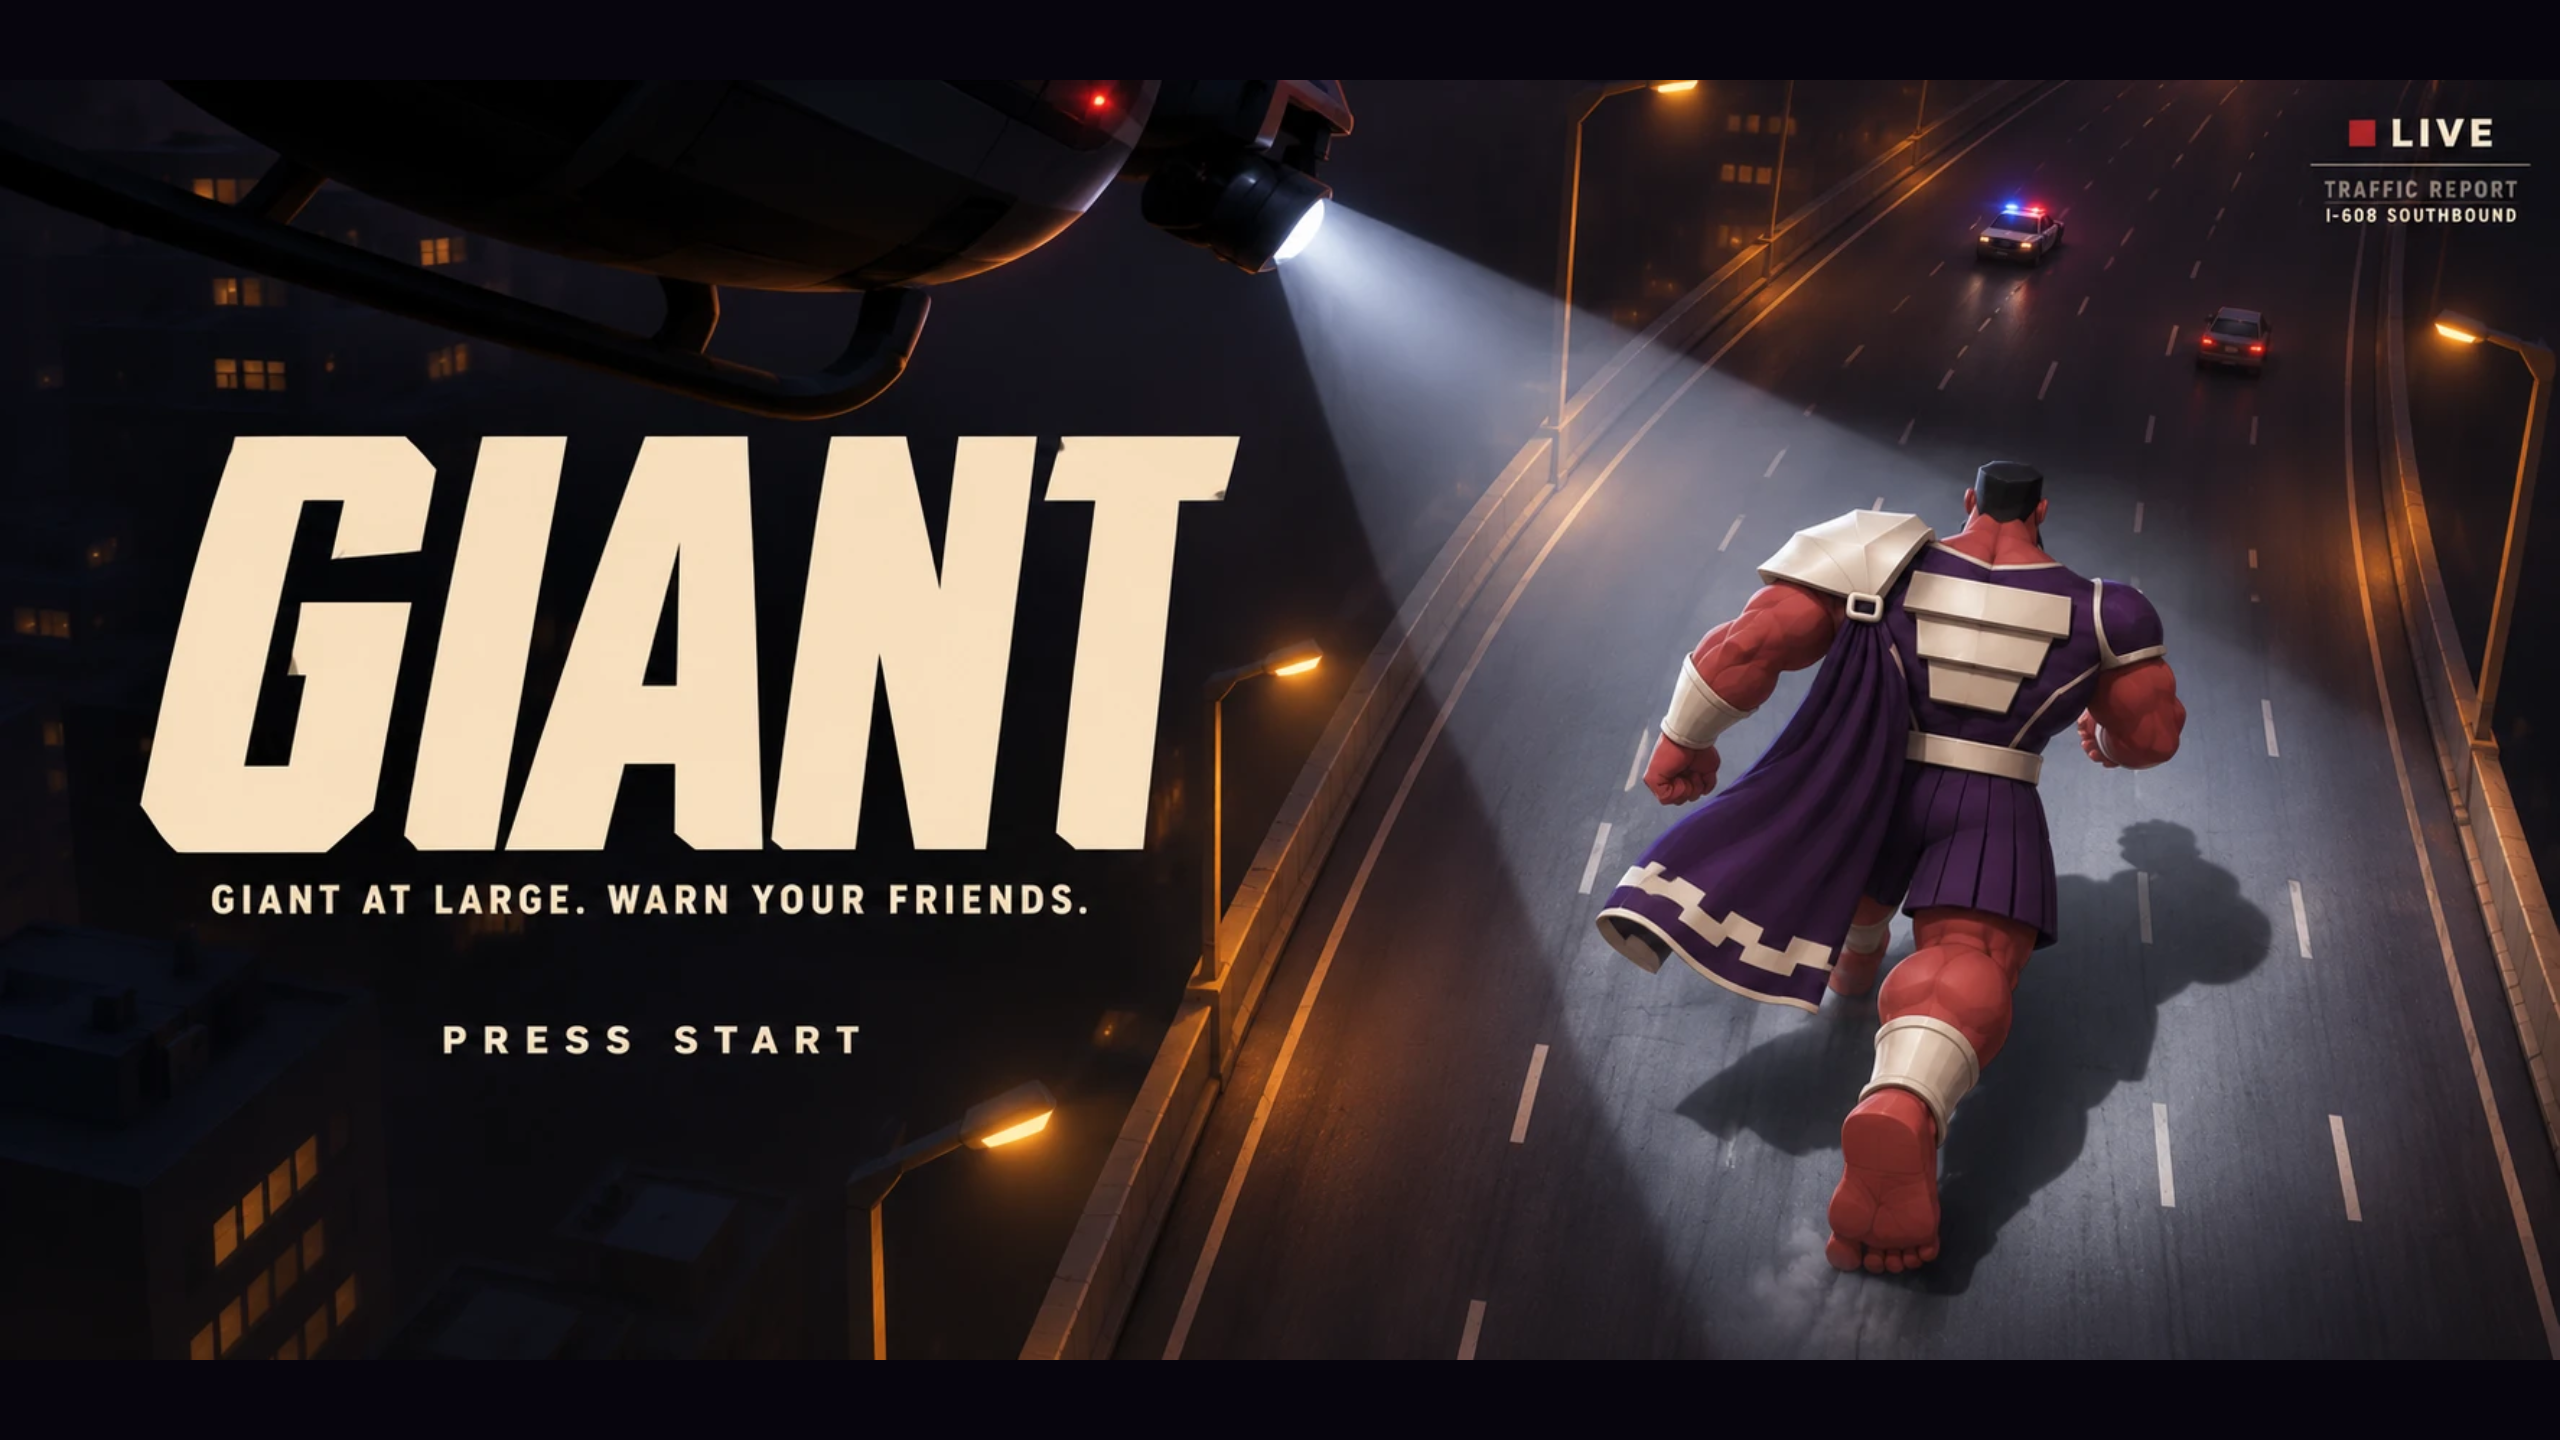
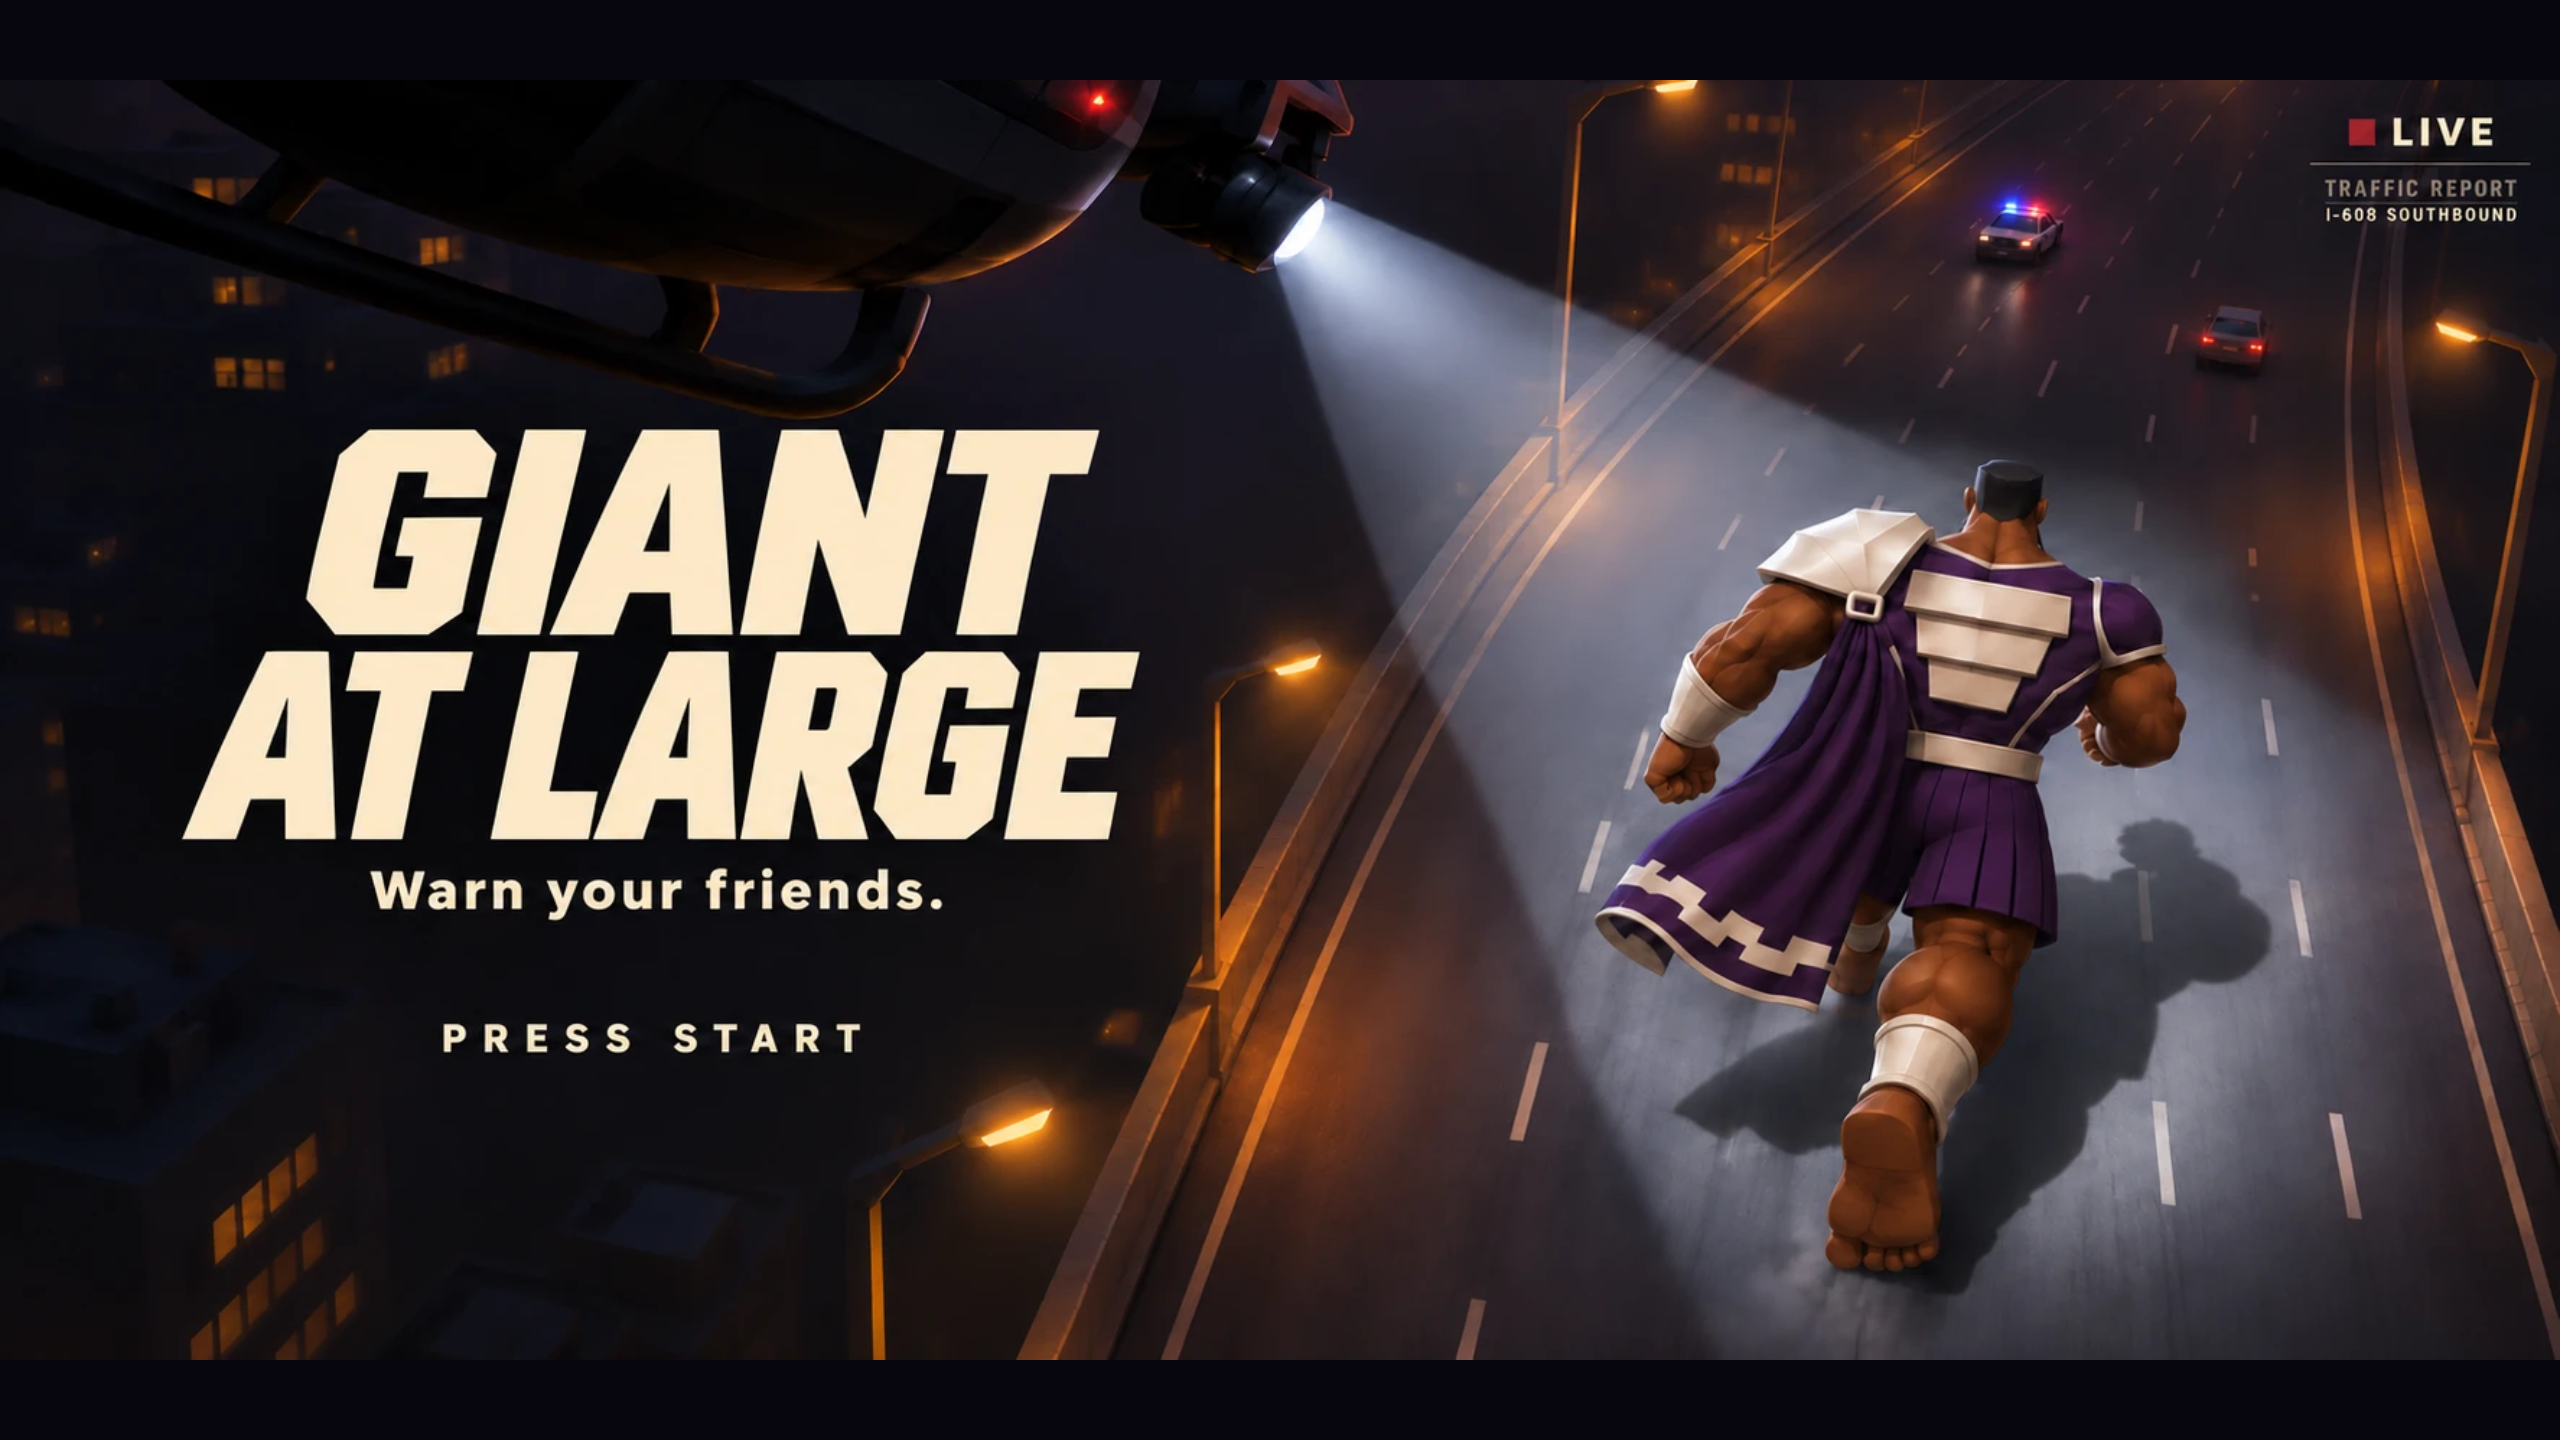
Giant at Large: title, page name and the brown-skin cover art
Mike named the game Giant at Large (tagline: Warn your friends.). The live
title reads GIANT / AT LARGE, the cover is his brown-skin art, and his
character sheet is saved in docs/refs for the Meshy model. gameId stays
warn-your-friends so saves keep working.

Claude-Session: https://claude.ai/code/session_01U6CEtzBnsd5sKqjjyRSivB

diff --git a/src/style.css b/src/style.css
@@ -341,9 +341,9 @@ html.attract #gainpop { display: none; }
 /* Title screen (Mike's chopper-feed direction): wordmark left, the live chase right, LIVE bug. */
 html.title #hud, html.title #abil, html.title #controls, html.title #camtag, html.title #btn-pause { display: none !important; }
 #ui [data-screen-id="title"].slu-screen { place-items: center start; padding: 0 0 0 clamp(20px, 7vw, 110px); background: linear-gradient(90deg, rgba(5, 3, 12, 0.88) 0%, rgba(5, 3, 12, 0.55) 38%, rgba(5, 3, 12, 0) 62%); }
-#ui [data-screen-id="title"] .slu-panel { background: none; border: 0; box-shadow: none; padding: 0; width: auto; max-width: min(92vw, 640px); overflow: visible; }
-#ui [data-screen-id="title"] .slu-header h1 { font: italic 900 clamp(84px, 17vw, 230px)/0.82 'Arial Black', 'Helvetica Neue', Impact, system-ui, sans-serif; letter-spacing: -0.03em; color: #f4ead6; text-transform: uppercase; margin: 0; transform: skewX(-6deg); text-shadow: 0 6px 30px rgba(0, 0, 0, 0.5); }
-#ui [data-screen-id="title"] .slu-header p { color: #f4ead6; opacity: 1; font-weight: 800; letter-spacing: 0.16em; text-transform: uppercase; font-size: clamp(12px, 1.6vw, 20px); margin: 14px 0 clamp(28px, 6vh, 64px) 4px; }
+#ui [data-screen-id="title"] .slu-panel { background: none; border: 0; box-shadow: none; padding: 0; width: auto; max-width: min(92vw, 1000px); overflow: visible; }
+#ui [data-screen-id="title"] .slu-header h1 { white-space: pre-line; font: italic 900 clamp(52px, 9vw, 140px)/0.86 'Arial Black', 'Helvetica Neue', Impact, system-ui, sans-serif; letter-spacing: -0.03em; color: #f4ead6; text-transform: uppercase; margin: 0; transform: skewX(-6deg); text-shadow: 0 6px 30px rgba(0, 0, 0, 0.5); }
+#ui [data-screen-id="title"] .slu-header p { color: #f4ead6; opacity: 1; font-weight: 800; letter-spacing: 0.04em; text-transform: none; font-size: clamp(16px, 2.4vw, 32px); margin: 14px 0 clamp(28px, 6vh, 64px) 4px; }
 #ui [data-screen-id="title"] .slu-choice { border: 0; background: none; padding: 0 0 0 4px; color: #f4ead6; }
 #ui [data-screen-id="title"] .slu-choice:hover, #ui [data-screen-id="title"] .slu-choice[data-focused="true"], #ui [data-screen-id="title"] .slu-choice:focus-visible { background: none; color: #f4ead6; outline: none; }
 #ui [data-screen-id="title"] .slu-choice-label { font-size: clamp(14px, 1.7vw, 22px); letter-spacing: 0.32em; animation: pressstart 1.6s ease-in-out infinite; }

diff --git a/src/game.ts b/src/game.ts
@@ -868,7 +868,7 @@ resize();
 enterAttract();
 app = await createGameApp({
   gameId: 'warn-your-friends',
-  gameName: 'Warn Your Friends',
+  gameName: 'Giant at Large',
   version: '0.2.0',
   renderer: rendererAdapter,
   root: $('ui'),
@@ -903,7 +903,7 @@ app = await createGameApp({
 });
 registerGlyphs(app.shell.production.glyphs);
 // Only what exists: no challenges or credits yet; the tagline is approved fiction (§21).
-app.ui.updateScreen('title', { title: 'Giant', subtitle: 'Giant at large. Warn your friends.', choices: [{ id: 'start', label: 'Press Start' }] });
+app.ui.updateScreen('title', { title: 'Giant\nat Large', subtitle: 'Warn your friends.', choices: [{ id: 'start', label: 'Press Start' }] });
 app.ui.updateScreen('main-menu', { choices: [{ id: 'play', label: 'Play' }, { id: 'settings', label: 'Settings' }] });
 // Core settings drive the game: reduced motion, shake, vibration, volume.
 const applyCore = (c: CoreSettings) => {

diff --git a/index.html b/index.html
@@ -4,7 +4,7 @@
     <meta charset="UTF-8" />
     <meta name="viewport" content="width=device-width, initial-scale=1, maximum-scale=1, user-scalable=no, viewport-fit=cover" />
     <meta name="theme-color" content="#1c0b30" />
-    <title>Warn Your Friends</title>
+    <title>Giant at Large</title>
     <link rel="stylesheet" href="/src/style.css" />
   </head>
   <body>

diff --git a/DECISIONS.md b/DECISIONS.md
@@ -4,6 +4,7 @@ Build-time decisions, working defaults for open questions (GDD §46), and deviat
 
 | Date | Decision | Why | Revisit |
 |---|---|---|---|
+| 2026-11-14 | **The game is "Giant at Large"** (Mike), with the tagline "Warn your friends." Page title, shell game name and the live title screen ("GIANT / AT LARGE"). The cover art is Mike's brown-skin "Giant at Large" version. Kept: `gameId` `warn-your-friends` (it keys saves and bests), the repo and site names, and the in-game station WYF 6 (the tagline still explains it). His brown-skin character sheet is in `docs/refs/giant-character-sheet.webp` for the Meshy model. Skin measured on the sheet: hue ~20° (#894a28 thigh, #6f3b21 face; the old one was ~2°, pure red), a warm brown that can still read reddish under sodium light. | Mike's call. | — |
 | 2026-11-14 | **Cover art is the start screen** (Mike): his chopper-feed image, full and uncropped (slim dark bars off 2:1), over the live title. Left idle 12s (`TUNING.title.idleToAttract`), it slides away to the live attract shot; any input brings it back; clicking or tapping it is Press Start. Placeholder until Mike's brown-skin version lands as a file (`src/assets/title-cover.webp`, one-file swap). Its baked "I-608" text goes with the final art. **The greybox recolour is reverted** (Mike: the real model comes from his character sheet via Meshy), so he's plum and bone with the horned pauldron again. **Tunnels:** roof beams within 30m behind / 8m ahead of him are hidden, and wrecks bounce off road-edge walls instead of flying through them, so the tumble stays in view. **Parked idea:** the dark chopper silhouette from the cover as an in-game visual too (e.g. a corner of the frame on cut-aways). | Mike's notes. | Final cover art; Meshy model |
 | 2026-11-14 | **Chopper-feed title + giant recoloured to Mike's title art.** Title: the attract broadcast is shot close from behind and above (giant in the right third, night look, spotlight pool), "GIANT" wordmark, "Giant at large. Warn your friends.", a pulsing PRESS START, and a LIVE / TRAFFIC REPORT bug naming the road he's on (our invented zone names; the mockup's "I-608" reads like a real interstate, so it isn't used). Leaving the title, the camera glides into the chase over 1.6s. Numbers in `TUNING.title`. Giant: red skin (0x8a3329), black flat-top (no helm, topknot or braid), bare red arms and legs, cream wrist cuffs and greaves, bare feet, plum tunic and kilt, one smooth cream pauldron (**the horns are gone**, as in the art), clasp and strap kept. Silhouette test still passes (night Chase High 5.0:1). **Open:** is the game's name now "GIANT"? The title says GIANT; the repo, site and station stay Warn Your Friends / WYF until Mike says. Not done yet: the cape's cream Greek-key hem, the chopper silhouette in the corner. | Mike: "a Title Screen / Visual direction I think we should push for". | Mike |
 | 2026-11-14 | **Option B (Mike): the bulldozer is on.** `props.immovableChance` 0.2 from 250m, at most one per row, and rows still always leave a lane open. It bounces him at any tier (−1 tier, knock-back), so dodging matters at Rampage. Leap clears it; the Stare and Hijack ignore it. Bot: 2.4 bounces per run (was 1.7), Rampage share 41%, every seed reaches Rampage. **Camera fix:** in High Head-On at Rampage, the 15%-from-top framing rule and ≥2s of road ahead left no slack (soak min 1.90s), so High Head-On pulls out 110 → 122m (soak min back over 2s). E2E run check moved to seed 11: the dozer changed seed 10's road and the bot busted. Tier feed stays off. | Mike's call. | Mike's playtest |

diff --git a/docs/refs/README.md b/docs/refs/README.md
@@ -12,3 +12,7 @@ The case for the lane-runner pivot (GDD v0.3). All four are night-time news-chop
 - **High wide on a curving highway:** cruisers boxing a suspect vehicle across lanes. (Pursuers boxing lanes off, later phases.)
 
 Take: direction of travel up the screen, lanes readable from height, light bars as the brightest marks, a lower-third chyron. Note: the references are at night, but GDD §23's sun-bleached day look is unchanged in Phase 0b. A night broadcast look is an open question for Mike.
+
+## Giant character sheet (Mike, 2026-11-14): `giant-character-sheet.webp`
+
+Front, side and back turnaround plus a run pose, the cape, and the clasp. Brown skin, black flat-top and goatee, plum tunic with cream segmented plates front and back, one cream pauldron on his left shoulder with the cape clasped under it, a cream Greek-key hem on the cape, cream belt, wrist cuffs and shin wraps, plum pleated kilt, bare feet. The source for the Meshy model; the cover art (`src/assets/title-cover.webp`) matches it.
